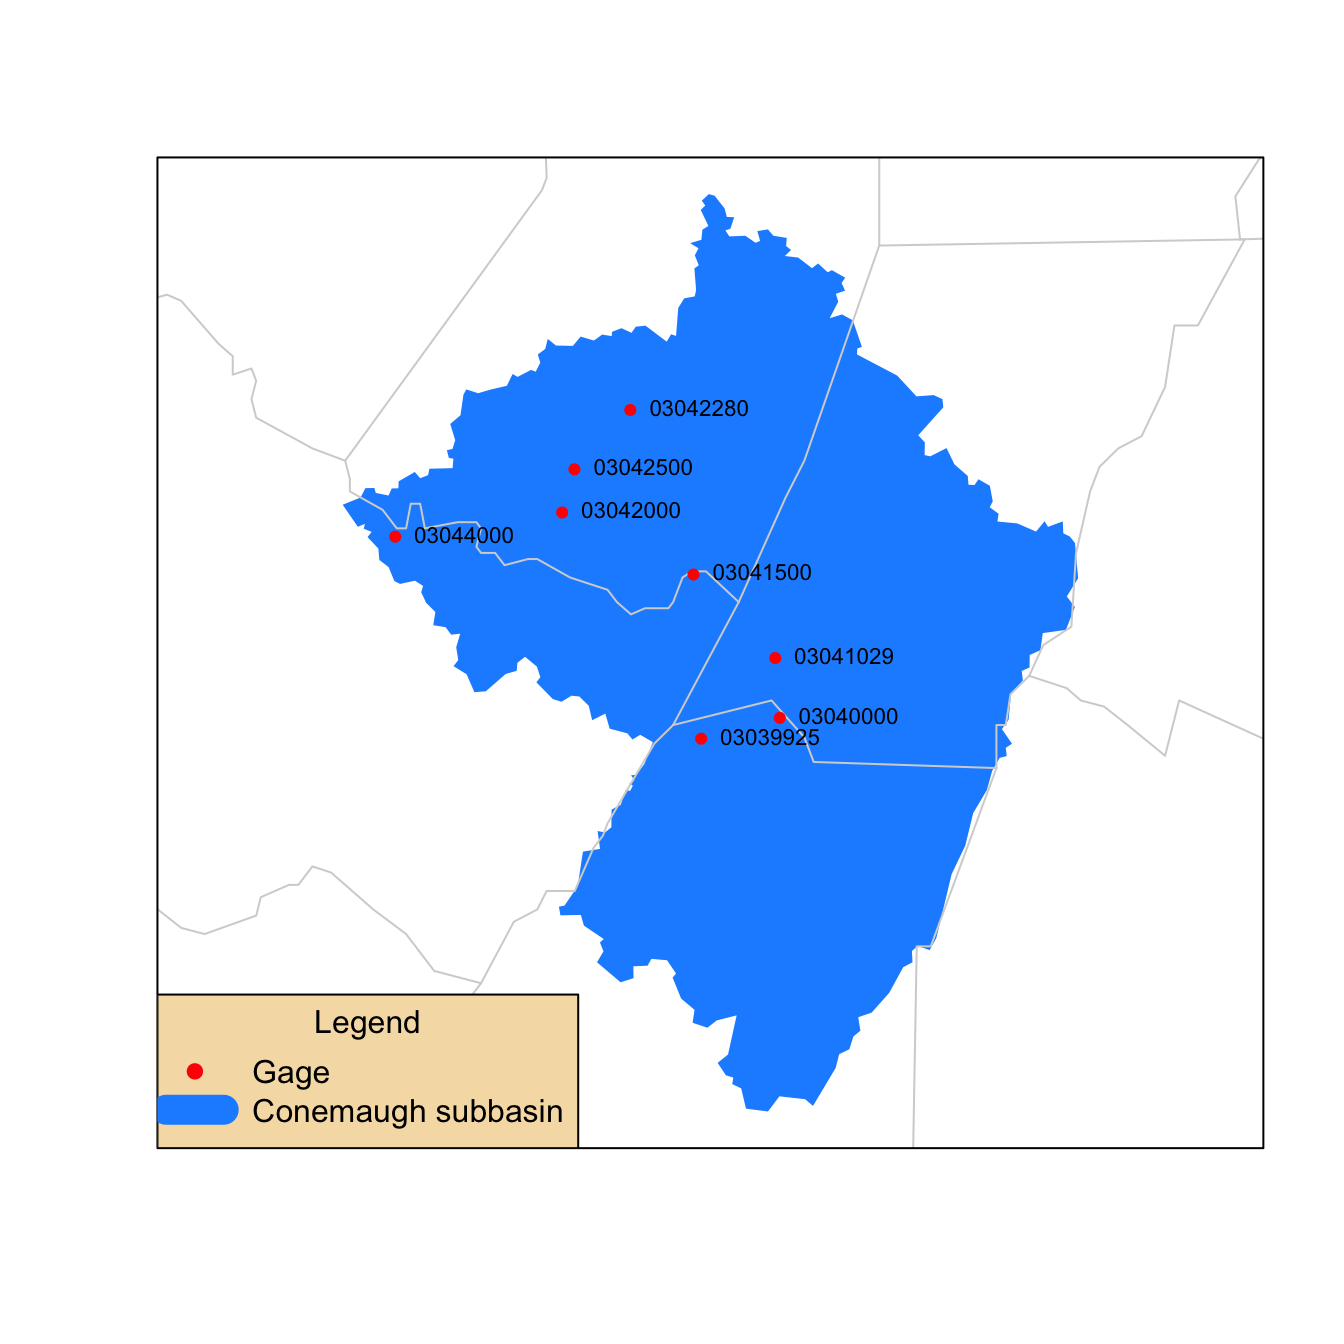
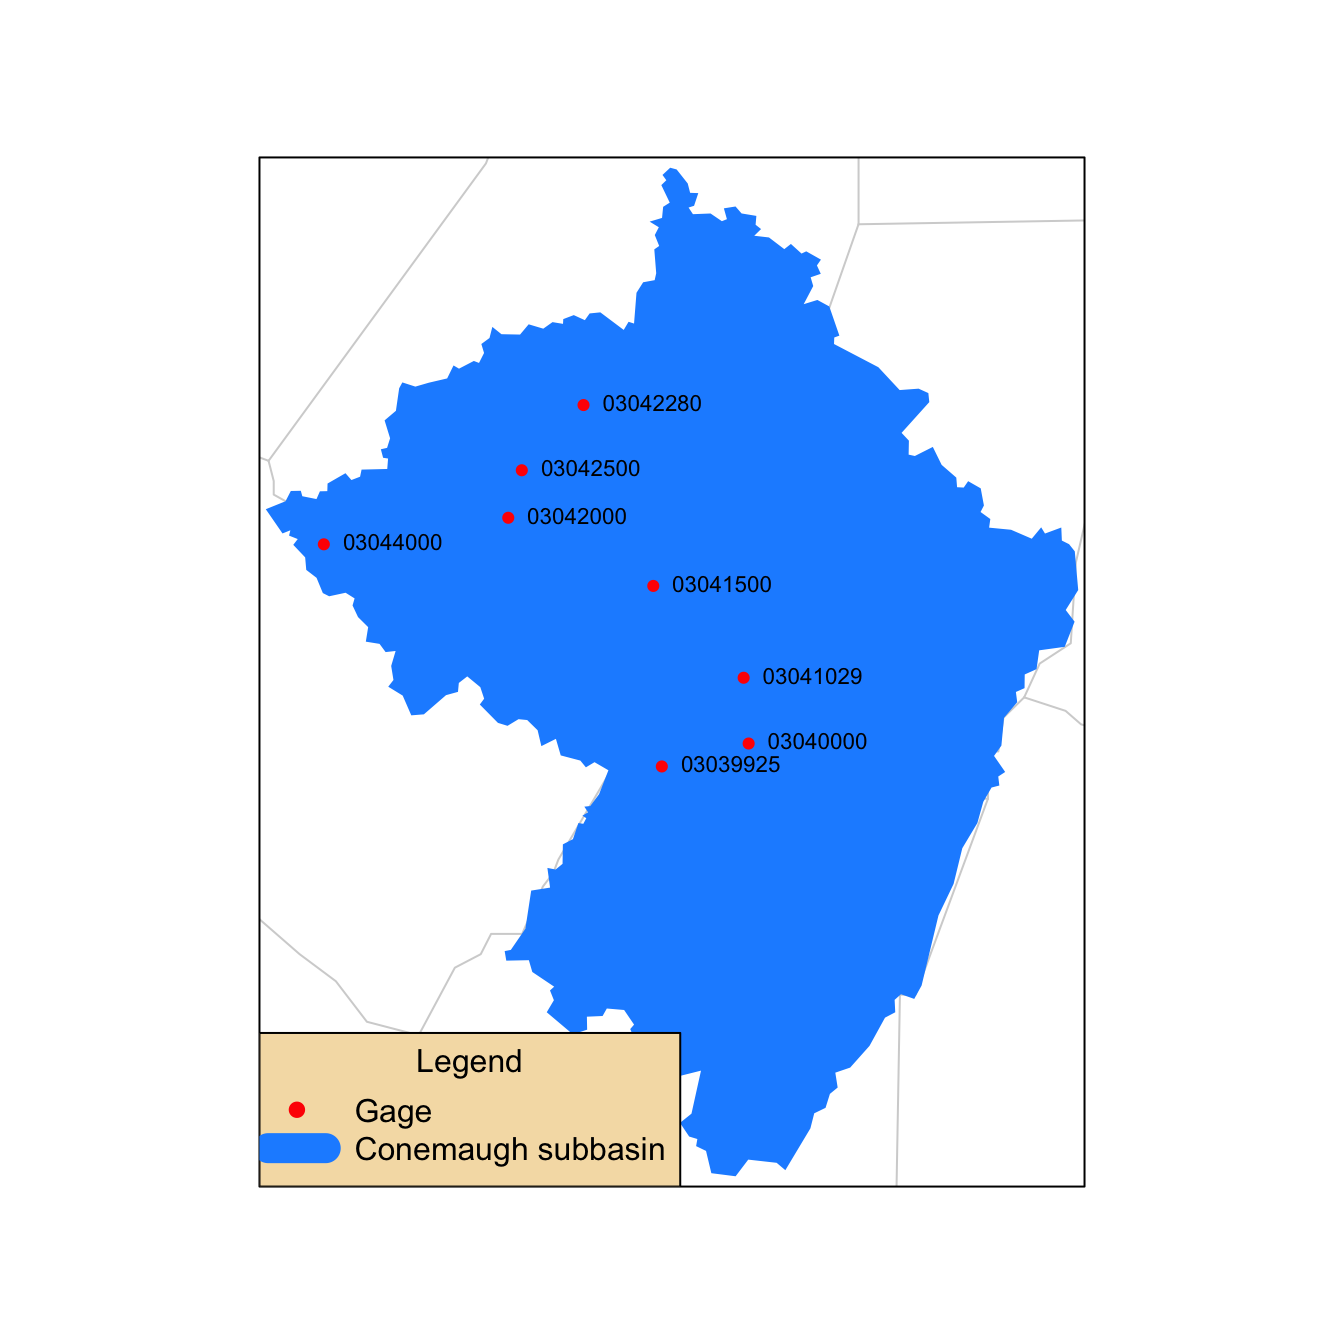
text changes from review

diff --git a/content/mapping_in_r.md b/content/mapping_in_r.md
@@ -29,12 +29,12 @@ keywords:
 Introduction
 ------------
 
-There are many different R packages for dealing with spatial data. The main distinctions between them involve the types of data they work with --- raster or polygonal --- and the sophistication of the analyses they can do. Raster data can be thought of as pixels, similar to an image, while polygonal data consists of lines or polygons. Spatial data manipulation can be quite complex, but creating some basic plots can be done with just a few commands. In this post, we will show simple examples of each for plotting gage locations, and link to some other more complex examples.
+There are many different R packages for dealing with spatial data. The main distinctions between them involve the types of data they work with --- raster or vector --- and the sophistication of the analyses they can do. Raster data can be thought of as pixels, similar to an image, while vector data consists of points, lines, or polygons. Spatial data manipulation can be quite complex, but creating some basic plots can be done with just a few commands. In this post, we will show simple examples of raster and vector spatial data for plotting a watershed and gage locations, and link to some other more complex examples.
 
 Setting up
 ==========
 
-First, let's download an example shapefile (a polygon) of a HUC8 from western Pennsylania, using the `sbtools` package to access Sciencebase. Then we'll retrieve gages with discharge from this watershed using the `dataRetrieval` package. Both of these packages are covered in our [USGS Packages curriculum](https://owi.usgs.gov/R/training-curriculum/usgs-packages/). The `readOGR` function from `rgdal` reads shapefiles into R. `rgdal` accesses the [Geospatial Data Abstraction Library](http://www.gdal.org/) (GDAL) system library.
+First, let's download an example shapefile (a polygon) of a HUC8 from western Pennsylania, using the `sbtools` package to access [ScienceBase](https://www.sciencebase.gov/catalog/). The `st_read` function from the `sf` (for "simple features") package reads in the shapefile. We will be using `sf` throughout these examples to manipulate and the points and polygon for the gages and HUC. Then we'll retrieve gages with discharge from this watershed using the `dataRetrieval` package. Both `dataRetrieval` and `sbtools` are covered in our [USGS Packages curriculum](https://owi.usgs.gov/R/training-curriculum/usgs-packages/).
 
 ``` r
 library(sbtools)
@@ -51,6 +51,7 @@ item_file_download(sb_id = "5a83025ce4b00f54eb32956b",
 
 ``` r
 unzip('huc8_05010007_example.zip', overwrite = TRUE)
+#note st_read takes the folder, not a particular file
 huc_poly <- st_read('huc8_05010007_example')
 ```
 
@@ -69,64 +70,103 @@ class(huc_poly)
     ## [1] "sf"         "data.frame"
 
 ``` r
-huc_gages <- whatNWISdata(huc = "05010007", parameterCd = "00060", service="uv")
-print(huc_gages)
+str(huc_poly)
 ```
 
-    ##      agency_cd  site_no                                        station_nm
-    ## 197       USGS 03039925 North Fork Bens Creek at North Fork Reservoir, PA
-    ## 591       USGS 03040000                  Stonycreek River at Ferndale, PA
-    ## 621       USGS 03041029                Conemaugh River at Minersville, PA
-    ## 731       USGS 03041500                     Conemaugh River at Seward, PA
-    ## 824       USGS 03042000                  Blacklick Creek at Josephine, PA
-    ## 964       USGS 03042280                  Yellow Creek near Homer City, PA
-    ## 1058      USGS 03042500                    Two Lick Creek at Graceton, PA
-    ## 1245      USGS 03044000                  Conemaugh River at Tunnelton, PA
-    ##      site_tp_cd dec_lat_va dec_long_va coord_acy_cd dec_coord_datum_cd
-    ## 197          ST   40.26619   -79.01669            S              NAD83
-    ## 591          ST   40.28563   -78.92058            S              NAD83
-    ## 621          ST   40.34139   -78.92611            S              NAD83
-    ## 731          ST   40.41924   -79.02614            S              NAD83
-    ## 824          ST   40.47701   -79.18670            S              NAD83
-    ## 964          ST   40.57257   -79.10337            S              NAD83
-    ## 1058         ST   40.51729   -79.17170            S              NAD83
-    ## 1245         ST   40.45451   -79.39087            S              NAD83
-    ##        alt_va alt_acy_va alt_datum_cd   huc_cd data_type_cd parm_cd
-    ## 197      <NA>       <NA>         <NA> 05010007           uv   00060
-    ## 591   1184.06        .01       NGVD29 05010007           uv   00060
-    ## 621      1140        .01       NGVD29 05010007           uv   00060
-    ## 731   1076.01        .01       NGVD29 05010007           uv   00060
-    ## 824    954.46        .01       NAVD88 05010007           uv   00060
-    ## 964      1140        .01       NGVD29 05010007           uv   00060
-    ## 1058   981.63        .01       NGVD29 05010007           uv   00060
-    ## 1245   844.64        .01       NGVD29 05010007           uv   00060
-    ##      stat_cd  ts_id loc_web_ds medium_grp_cd parm_grp_cd  srs_id access_cd
-    ## 197     <NA> 221326       <NA>           wat        <NA> 1645423         0
-    ## 591     <NA> 122456       <NA>           wat        <NA> 1645423         0
-    ## 621     <NA> 122464       <NA>           wat        <NA> 1645423         0
-    ## 731     <NA> 122468       <NA>           wat        <NA> 1645423         0
-    ## 824     <NA> 122471       <NA>           wat        <NA> 1645423         0
-    ## 964     <NA> 122477       <NA>           wat        <NA> 1645423         0
-    ## 1058    <NA> 122479       <NA>           wat        <NA> 1645423         0
-    ## 1245    <NA> 122490       <NA>           wat        <NA> 1645423         0
-    ##      begin_date   end_date count_nu
-    ## 197  1987-10-03 1998-09-26     4011
-    ## 591  1991-10-01 2018-07-17     9786
-    ## 621  2001-12-13 2018-07-18     6061
-    ## 731  1991-10-01 2018-07-18     9787
-    ## 824  1991-10-15 2018-07-18     9773
-    ## 964  1991-10-01 2018-07-18     9787
-    ## 1058 1986-10-01 2018-07-18    11613
-    ## 1245 2010-10-01 2018-07-18     2847
+    ## Classes 'sf' and 'data.frame':   1 obs. of  10 variables:
+    ##  $ REGION    : Factor w/ 1 level "Ohio Region": 1
+    ##  $ SUBREGION : Factor w/ 1 level "Allegheny": 1
+    ##  $ BASIN     : Factor w/ 1 level "Allegheny": 1
+    ##  $ SUBBASIN  : Factor w/ 1 level "Conemaugh": 1
+    ##  $ HUC_2     : Factor w/ 1 level "05": 1
+    ##  $ HUC_4     : Factor w/ 1 level "0501": 1
+    ##  $ HUC_6     : Factor w/ 1 level "050100": 1
+    ##  $ HUC_8     : Factor w/ 1 level "05010007": 1
+    ##  $ HU_8_STATE: Factor w/ 1 level "PA": 1
+    ##  $ geometry  :sfc_POLYGON of length 1; first list element: List of 1
+    ##   ..$ : num [1:256, 1:2] -79 -79 -79 -79 -79 ...
+    ##   ..- attr(*, "class")= chr  "XY" "POLYGON" "sfg"
+    ##  - attr(*, "sf_column")= chr "geometry"
+    ##  - attr(*, "agr")= Factor w/ 3 levels "constant","aggregate",..: NA NA NA NA NA NA NA NA NA
+    ##   ..- attr(*, "names")= chr  "REGION" "SUBREGION" "BASIN" "SUBBASIN" ...
 
-The `huc_poly` object is a new type of object that we haven't seen --- a `SpatialPolygonsDataFrame`. It has several different parts, or "slots". You can click on the object in your Rstudio environment window to see what is inside, or run `slotNames(t)`. Slots can be referenced directly using `@`, e.g. `huc_poly@data`. The `data` slot is like a regular R data frame, and contains information about the polygon. You can look at its contents in the nice Rstudio data frame format using `View(huc_poly@data)`. Since this shapefile only contains a single polygon, it only has one row . The `polygons` slot contains the actual vertices of the polygon. If there were multiple polygons in this object, the `plotOrder` field would determine the order in which they are drawn. The `bbox` field gives the bounding box of all polygons in the object, and `proj4.string` gives the projection. These fields can be used and modified to change or reference specific things about the object. In this examples, we will use the `bbox` slot in order to request a map zoomed to this HUC.
+``` r
+st_geometry(huc_poly)
+```
+
+    ## Geometry set for 1 feature 
+    ## geometry type:  POLYGON
+    ## dimension:      XY
+    ## bbox:           xmin: -79.45512 ymin: 39.91875 xmax: -78.55573 ymax: 40.77377
+    ## epsg (SRID):    4326
+    ## proj4string:    +proj=longlat +datum=WGS84 +no_defs
+
+``` r
+st_bbox(huc_poly)
+```
+
+    ##      xmin      ymin      xmax      ymax 
+    ## -79.45512  39.91875 -78.55573  40.77377
+
+``` r
+st_crs(huc_poly)
+```
+
+    ## Coordinate Reference System:
+    ##   EPSG: 4326 
+    ##   proj4string: "+proj=longlat +datum=WGS84 +no_defs"
+
+``` r
+huc_gages <- whatNWISdata(huc = "05010007", parameterCd = "00060", service="uv")
+head(huc_gages)
+```
+
+    ##     agency_cd  site_no                                        station_nm
+    ## 197      USGS 03039925 North Fork Bens Creek at North Fork Reservoir, PA
+    ## 591      USGS 03040000                  Stonycreek River at Ferndale, PA
+    ## 621      USGS 03041029                Conemaugh River at Minersville, PA
+    ## 731      USGS 03041500                     Conemaugh River at Seward, PA
+    ## 824      USGS 03042000                  Blacklick Creek at Josephine, PA
+    ## 964      USGS 03042280                  Yellow Creek near Homer City, PA
+    ##     site_tp_cd dec_lat_va dec_long_va coord_acy_cd dec_coord_datum_cd
+    ## 197         ST   40.26619   -79.01669            S              NAD83
+    ## 591         ST   40.28563   -78.92058            S              NAD83
+    ## 621         ST   40.34139   -78.92611            S              NAD83
+    ## 731         ST   40.41924   -79.02614            S              NAD83
+    ## 824         ST   40.47701   -79.18670            S              NAD83
+    ## 964         ST   40.57257   -79.10337            S              NAD83
+    ##       alt_va alt_acy_va alt_datum_cd   huc_cd data_type_cd parm_cd stat_cd
+    ## 197     <NA>       <NA>         <NA> 05010007           uv   00060    <NA>
+    ## 591  1184.06        .01       NGVD29 05010007           uv   00060    <NA>
+    ## 621     1140        .01       NGVD29 05010007           uv   00060    <NA>
+    ## 731  1076.01        .01       NGVD29 05010007           uv   00060    <NA>
+    ## 824   954.46        .01       NAVD88 05010007           uv   00060    <NA>
+    ## 964     1140        .01       NGVD29 05010007           uv   00060    <NA>
+    ##      ts_id loc_web_ds medium_grp_cd parm_grp_cd  srs_id access_cd
+    ## 197 221326       <NA>           wat        <NA> 1645423         0
+    ## 591 122456       <NA>           wat        <NA> 1645423         0
+    ## 621 122464       <NA>           wat        <NA> 1645423         0
+    ## 731 122468       <NA>           wat        <NA> 1645423         0
+    ## 824 122471       <NA>           wat        <NA> 1645423         0
+    ## 964 122477       <NA>           wat        <NA> 1645423         0
+    ##     begin_date   end_date count_nu
+    ## 197 1987-10-03 1998-09-26     4011
+    ## 591 1991-10-01 2018-07-17     9786
+    ## 621 2001-12-13 2018-07-18     6061
+    ## 731 1991-10-01 2018-07-18     9787
+    ## 824 1991-10-15 2018-07-18     9773
+    ## 964 1991-10-01 2018-07-18     9787
+
+The `huc_poly` object is a new type of object that we haven't seen --- it has classes `sf` as well as `data.frame`. Looking inside the object with the `str` command, we can see it is structured very much like a `data.frame` with several factor columns, except for the `geometry` column, which is of type `sfc_POLYGON`. `sf` provides various functions to extract useful information from this kind object, generally prefixed with `st_`. `st_geometry` extracts the entire geometry part of the object; `st_bbox` extracts the bounding box from the geometry; and `st_crs` extracts the coordinate reference system. There are others, but we will use these three to get the parts of the `sf` object we need for plotting.
 
 Now that we understand this new object, let's make some maps.
 
 Raster map example
 ------------------
 
-For the raster map, we will use the `ggmap` package to create a political map and a satellite basemap for the HUC. Since the basemaps that `ggmap` uses are quite detailed, they are too large to include with the package and must be retrieved from the web with the `get_map` function. For the `location` argument, we are taking the bounding box slot from the `huc_poly` object (originally a 2D vector) and converting it to a vector with `c()`. The `ggmap` function is analogous to the `ggplot` function in the `ggplot2` that you have likely already used. It creates the base map, which we can then add things to. Many of the commands used here are the same as in the `ggplot2` package.
+For the raster map, we will use the `ggmap` package to create a road map and a satellite basemap for the HUC. Since the basemaps that `ggmap` uses are quite detailed, they are too large to include with the package and must be retrieved from the web with the `get_map` function. For the `location` argument, we are getting the bbox from the `huc_poly` object. `st_bbox` returns the bbox in the format we need, except for the names, which we add with `setNames`. The `ggmap` function is analogous to the `ggplot` function in the `ggplot2` package that you have likely already used. It creates the base map, which we can then add things to. Many of the commands used here are from the `ggplot2` package (`ggmap` imports them), and others could be used to further customize this map.
+
+Note that `ggmap` is probably not a good choice if you need your data to be in a particular projection. Compared to base plotting, it provides simplicity at the cost of control.
 
 ``` r
 library(ggmap)
@@ -148,7 +188,7 @@ print(satellite_map)
 
 <img src='/static/mapping-in-r/raster_map_base-2.png'/ title='satellite base map' alt='plain base maps' class=''/>
 
-Now we can start adding to our maps. To use a spatial polygon with `ggmap`, we first need to convert it to a standard data frame. Fortunately, the `tidy` function in the `broom` package does this for us. Also similar to `ggplot`, functions like `geom_polygon` and `geom_point` add to your base map.
+Now we can start adding to our maps. First, we convert the `huc_gages` data.frame to an `sf` object using `st_as_sf`, assinging it the same coordinate reference system as `huc_poly` using `st_crs`. `ggplot` functions like `geom_sf` and `geom_text` add to your base map.
 
 ``` r
 huc_gages_sf <- st_as_sf(huc_gages, coords = c("dec_long_va", "dec_lat_va"), crs = st_crs(huc_poly),
@@ -169,15 +209,15 @@ street_map + geom_sf(data = huc_poly,
                         color = "black", fill = NA) +
   geom_sf(data = huc_gages_sf, inherit.aes = FALSE, color = "red") +
   geom_text(data = huc_gages_sf, aes(label = site_no, x = dec_long_va, y = dec_lat_va),
-             hjust = 0, size=2.5, nudge_x = 0.02, col = "yellow")
+             hjust = 0, size=2.5, nudge_x = 0.02, col = "black")
 ```
 
 <img src='/static/mapping-in-r/raster_map_add-2.png'/ title='street map with HUC and gages' alt='base maps with HUC and gages' class=''/>
 
-Polygon map example
--------------------
+Vector map example
+------------------
 
-If we don't want any raster background to our maps, we can use base plotting and the `maps` package. This style of map can be nicer for insets or large scale maps that would be cluttered with a raster background. The `maps` package provides easily accessible political boundary maps, that can be overlaid with other shapefiles. As with regular base plotting, you can think of creating maps like painting --- every layer has to go on in the right order. You can't remove things without starting over. Fortunately, you can start over with just a few keystrokes since you are scripting your plot! Run these commands one by one to see the map take shape --- first we create a blank state map, then add county lines in white, then the HUC boundary, then the gage points, and then the legend.
+If we don't want any raster background to our maps, we can use base plotting and the `maps` package. This style of map can be nicer for insets or large scale maps that would be cluttered with a raster background. The `maps` package provides easily accessible political boundary maps, that can be overlaid with other shapefiles. As with regular base plotting, you can think of creating maps like painting --- every layer has to go on in the right order. You can't remove things without starting over. Fortunately, you can start over with just a few keystrokes since you are scripting your plot! Run these commands one by one to see the map take shape --- first we create a blank state map, then add county lines in white, then the HUC boundary, then the gage points, and then the legend. Note that we use the `st_geometry` function inside of the plot command so that we only plot the `huc_poly` and `huc_gages_sf` geometry, and not the other information in their data frames.
 
 ``` r
 library(maps)
@@ -193,11 +233,12 @@ title("Conemaugh Subbasin")
 
 <img src='/static/mapping-in-r/poly-map-state-1.png'/ title='Polygon map of Pennsylvania' alt='Polygon map of Pennsylvania' class=''/>
 
-Similarly, we could create a map zoomed in to the HUC polygon. We will start by plotting the HUC first, so that it sets the plot's boundaries, although if we wanted something else "on the bottom" we could specify a bounding box to the `map` function (you could access the coordinates from the shapefile with `huc_poly@bbox`.
+Similarly, we can create a map zoomed in to the HUC polygon. Note that we set the x and y limits of the map using by extracting the limits by of the `bbox` object we created earlier. We can use the names `left`, `right`, etc. because `bbox` is a named vector.
 
 ``` r
-  plot(st_geometry(huc_poly), col = "dodgerblue", border = NA)
-  map(database = 'county', regions = 'Pennsylvania', add = TRUE, col = "lightgray")
+  map(database = 'county', regions = 'Pennsylvania', col = "lightgray", 
+      xlim = bbox[c('left', 'right')], ylim = bbox[c('bottom', 'top')])
+ plot(st_geometry(huc_poly), col = "dodgerblue", border = NA, add = TRUE)
   box()
  plot(st_geometry(huc_gages_sf), add = TRUE, col = "red", pch = 19, cex = 0.7)
   legend("bottomleft", legend = c("Gage", "Conemaugh subbasin"), pch = c(19,NA), lty = c(NA, 1),
@@ -215,6 +256,7 @@ Like plotting in R, there are endless intricacies to making maps, and we are onl
 
 -   [raster](https://cran.r-project.org/web/packages/raster/index.html): For working with your own raster data
 -   [sp](https://cran.r-project.org/web/packages/sp/index.html): The original workhorse package for handling spatial data. `sf` is largely replacing it, but you will see it a lot when Googling things.
--   [geoknife](https://cran.r-project.org/web/packages/geoknife/index.html): A USGS package that utilizes the \[Geo Data Portal\] for processing gridded data. Covered in the [packages curriculum](https://owi.usgs.gov/R/training-curriculum/usgs-packages/).
+-   [geoknife](https://cran.r-project.org/web/packages/geoknife/index.html): A USGS package that utilizes the [Geo Data Portal](https://cida.usgs.gov/gdp/how-to-gdp/) for processing gridded data. Covered in the [packages curriculum](https://owi.usgs.gov/R/training-curriculum/usgs-packages/).
+-   [inlmisc](https://cran.r-project.org/web/packages/inlmisc/index.html): Another USGS package for creating high-level graphics, [demonstrated in this blog post by Jason Fisher](https://owi.usgs.gov/blog/inlmiscmaps/).
 
 Also, check out our [additional topics in R](https://owi.usgs.gov/R/training-curriculum/intro-curriculum/Additional/) page for links to some other tutorials.
